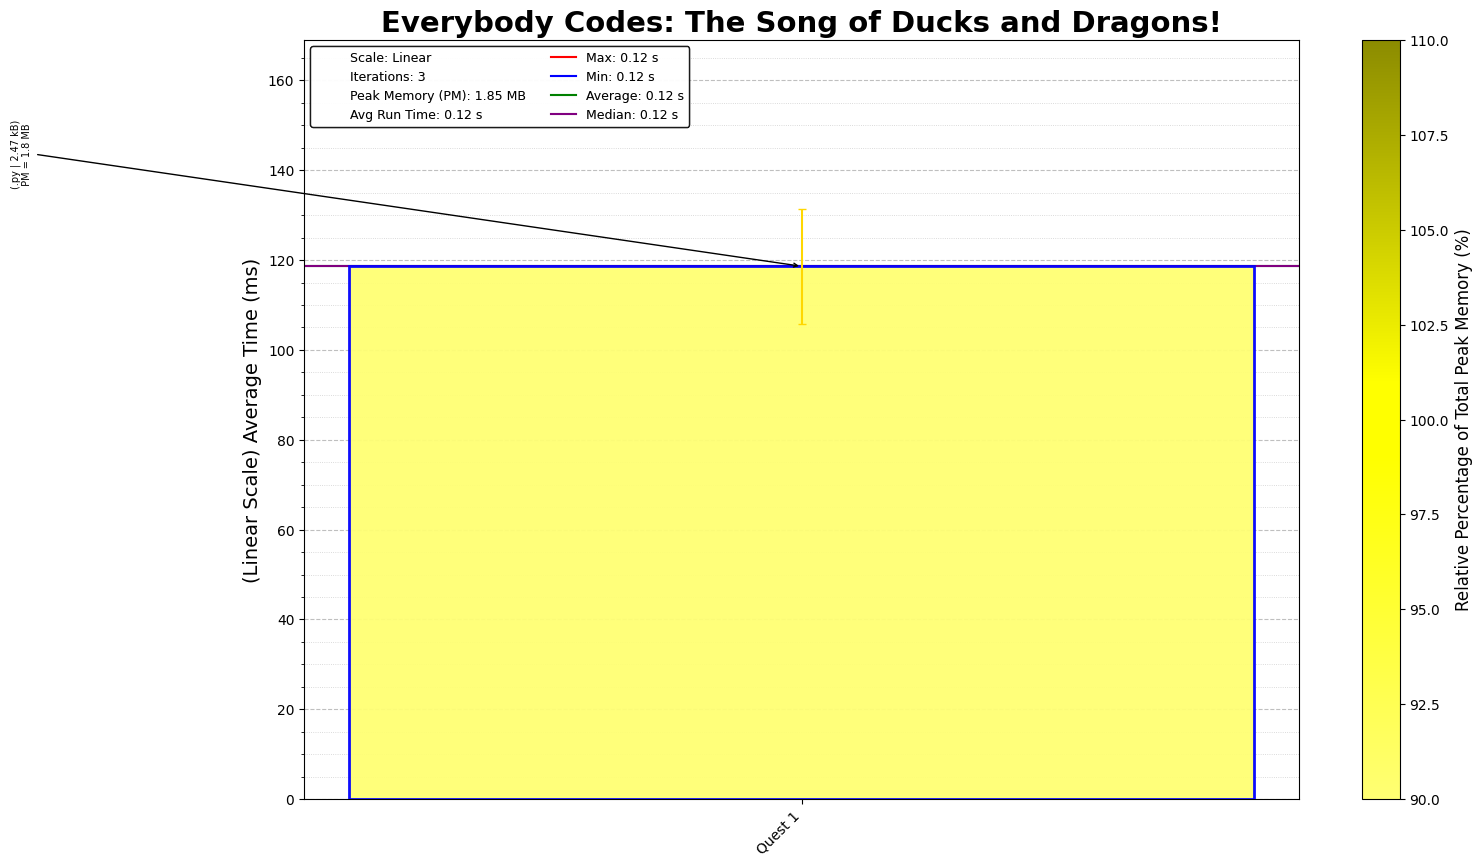
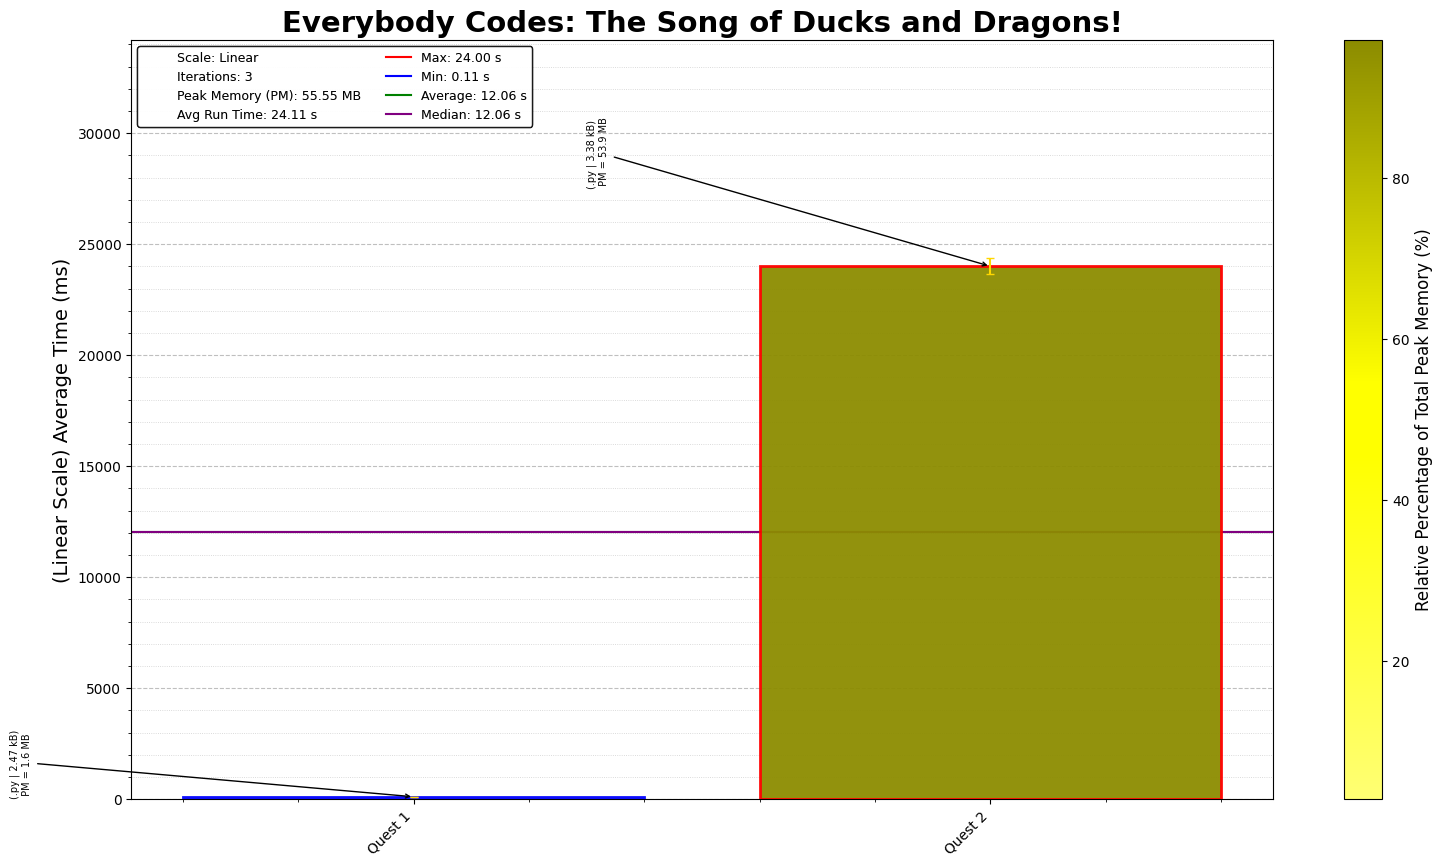
2025 EC Quest 2: From Complex to Clarity

diff --git a/2025/02/2025Day02.py b/2025/02/2025Day02.py
@@ -1,0 +1,88 @@
+"""Everybody Codes - Quest 2, Year 2025
+Solution Started: November 5, 2025
+Puzzle Link: https://everybody.codes/event/20252/quests/2
+Solution by: Abbas Moosajee
+Brief: [From Complex to Clarity]"""
+
+#!/usr/bin/env python3
+from pathlib import Path
+import numpy as np
+
+# List of input file names
+input_files = ["Day02_input_p1.txt", "Day02_input_p2.txt", "Day02_input_p3.txt"]
+
+# Read and split the input data into individual lists
+input_data_p1, input_data_p2, input_data_p3 = [
+    open(Path(__file__).parent / file).read().strip().split('\n')
+    for file in input_files
+]
+
+class ComplexNumbers:
+    def __init__(self, vec_str) -> None:
+        self.inp_vec = self.parse_vector(vec_str)
+        self.div_vec = [10, 10]
+
+
+    def parse_vector(self, inp_str):
+        stripped_vec = inp_str.split("=")[1].strip("[]")
+        split_vec = stripped_vec.split(",")
+        return [int(split_vec[0]), int(split_vec[1])]
+
+    def run_cycle(self, vector, add_vec = [0, 0]):
+        X, Y = vector
+        AX, AY = add_vec
+        DX, DY = self.div_vec
+
+        # multiply
+        new_x = X * X - Y * Y
+        new_y = X * Y + Y * X
+
+        # divide (integer truncation)
+        new_x = int(new_x / DX)
+        new_y = int(new_y / DY)
+
+        # add
+        new_x += AX
+        new_y += AY
+        return [new_x, new_y]
+
+    def run_total_cycles(self, total_cycles = 3):
+        init_vec = [0, 0]
+        for cycle in range(total_cycles):
+            new_vec = self.run_cycle(init_vec, self.inp_vec)
+            init_vec = new_vec
+        return init_vec
+
+    def engrave_grid(self, size = 1000, precision = 10):
+        base_grid = self.build_grid(self.inp_vec, size, precision)
+        self.div_vec = [100000,100000]
+        for coords in base_grid.keys():
+            init_vec = [0, 0]
+            base_grid[coords] = 1
+            for cycle in range(100):
+                new_vec = self.run_cycle(init_vec, coords)
+                if new_vec[0] <= -1_000_000 or new_vec[0] >= 1_000_000 or new_vec[1] <= -1_000_000 or new_vec[1] >= 1_000_000:
+                    base_grid[coords] = 0
+                    break  # stops immediately when outside bounds
+                init_vec = new_vec
+        return base_grid
+
+    def build_grid(self, origin, size, precision):
+        grid = {}
+        for row in range(origin[0], origin[0] + size + precision, precision):
+            for col in range(origin[1], origin[1] + size + precision, precision):
+                grid[row, col] = 0
+        return grid
+
+complex_p1 = ComplexNumbers(input_data_p1[0])
+vec_ans_p1 = complex_p1.run_total_cycles()
+print("Quest 2, P1:", f"[{vec_ans_p1[0]},{vec_ans_p1[1]}]")
+
+complex_p2 = ComplexNumbers(input_data_p2[0])
+grid_p2 = complex_p2.engrave_grid()
+print("Quest 2, P2:", sum(grid_p2.values()))
+
+# input_data_p3 = ["A=[35300,-64910]"]
+complex_p3 = ComplexNumbers(input_data_p3[0])
+grid_p3 = complex_p3.engrave_grid(size = 1000, precision = 1)
+print("Quest 2, P3:", sum(grid_p3.values()))

diff --git a/Create_Script.py b/Create_Script.py
@@ -3,7 +3,7 @@ from typing import Optional, Dict, Any, Tuple
 from challenge_utils import ScriptBuilder
 
 # Constants
-PROBLEM_NO = 1
+PROBLEM_NO = 2
 CHALLENGE = "2025"
 CHOSEN_LANGUAGE = "python"
 

diff --git a/2025/README_2025.md b/2025/README_2025.md
@@ -6,4 +6,5 @@ This repository contains coding solutions for the 2025 Everybody Codes. Each day
 
 ## Day-by-Day Coding Overview
 
-1. **Day 1 - Whispers in the Shell**: Fairly simple challenges for list indexing and manipulation
+1. **Day 1 - Whispers in the Shell**: Fairly simple challenges for list indexing and manipulation.
+2. **Day 2 - From Complex to Clarity**: Vector Math, fairly simple execution once you get over the hurdle of integer and div math.
